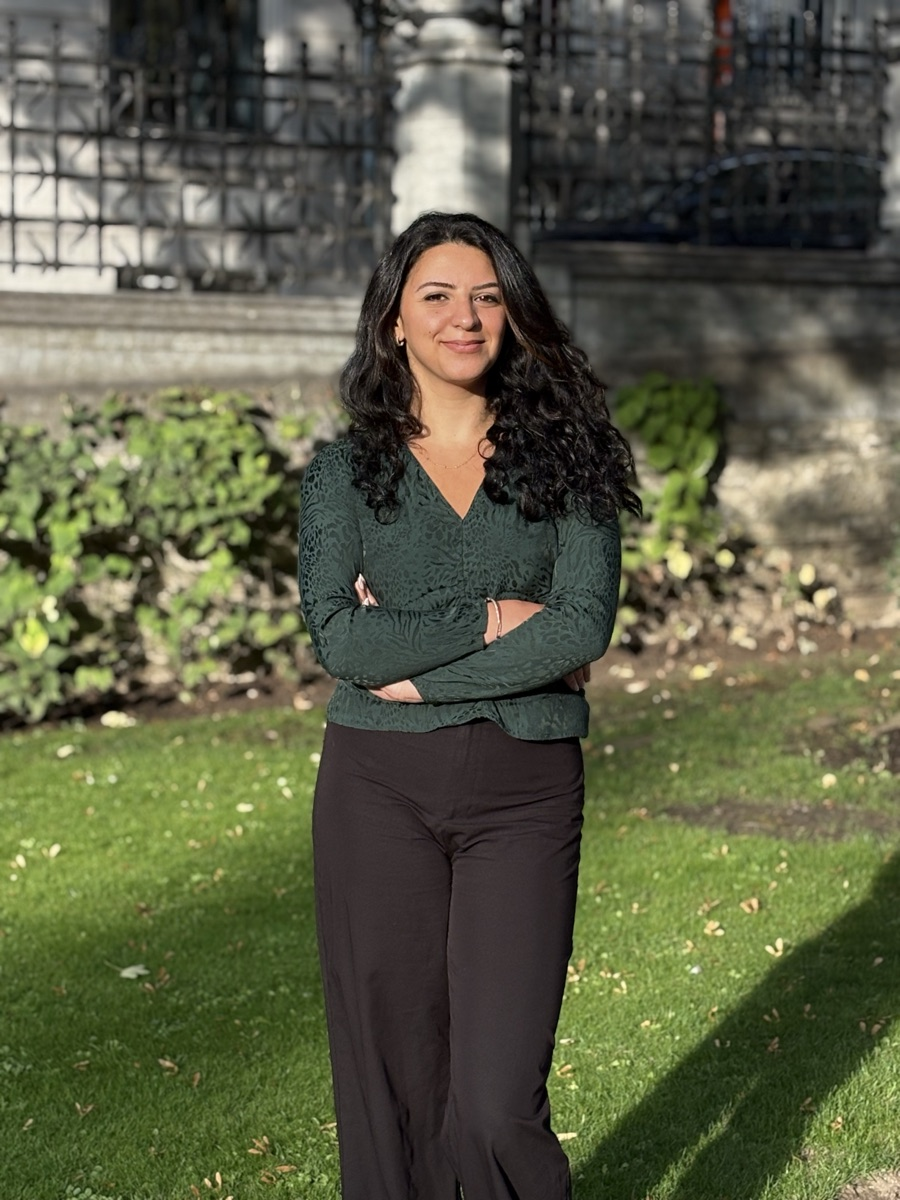
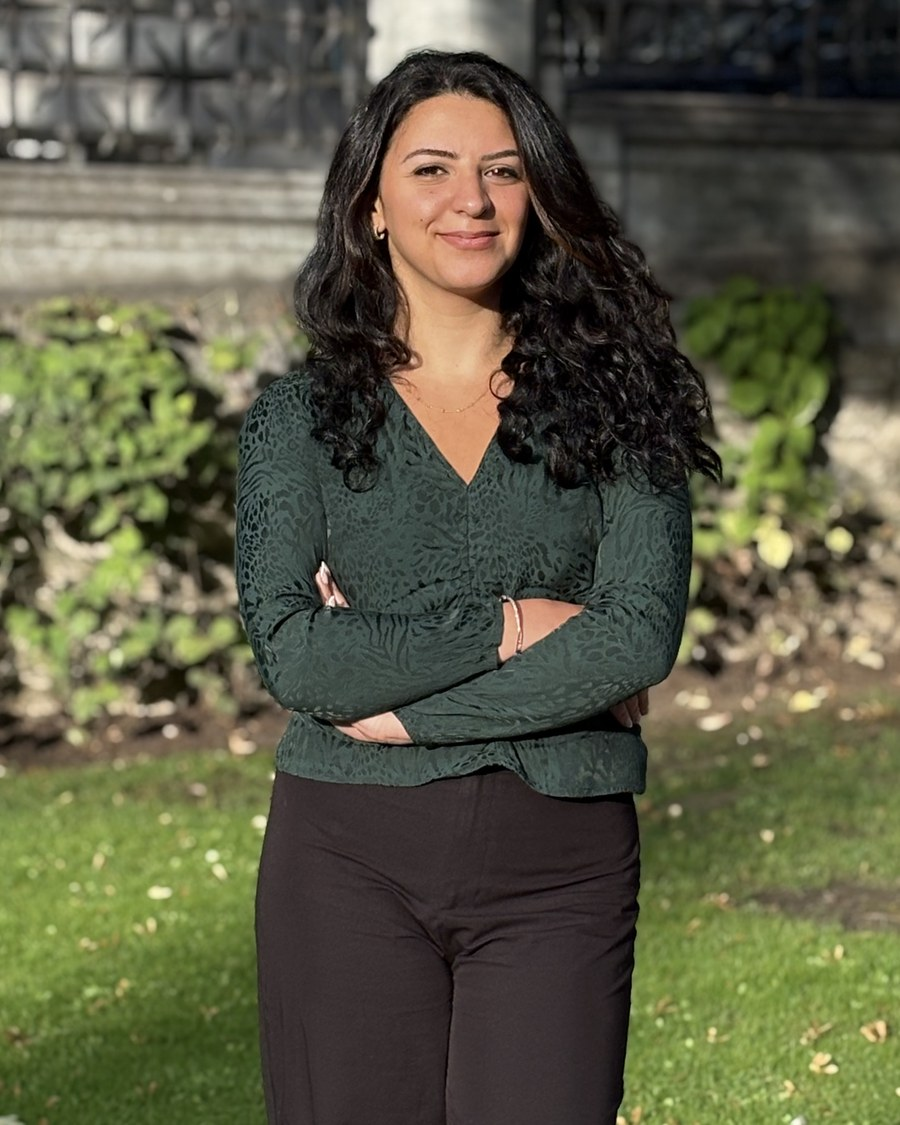
Move the site onto sage and caramel, and take the photograph as shot
The hero photograph is delivered already graded in the practice's tones, so
the treatment that used to fake that warmth is gone: no brown ground under
it, no `overlay` blend, no exposure lift. Only the framing crop remains — the
panel would otherwise eat the left half of the group. The full-resolution
file goes to `_originals/`, the 1900px JPEG to `assets/photos/`, as for every
other photograph here.

The team statement and the sentence under it run the full width of their
cell. They were capped twice: by the register's `--cell-measure`, and by the
66ch `--measure-prose` that `tokens/base.css` puts on every paragraph — the
second invisible at this width, but it would have taken over before the cell
edge on a wide screen. Both are lifted; the two blocks still break on one
shared vertical, which is now the cell's own edge.

The footer closes on the same sage that opens the site. The green is lighter
than the deep brown it replaces, so every tone carried on it was redone:
cream for headings, light sand for running text, caramel veil for what can be
clicked. All three clear 4.5:1, so the hierarchy rests on hue rather than on
contrast. The column labels are `Eyebrow`s, so the token is what turns over,
not a class — which is why the old `.pale` painted nothing across the child
component's root.

Soft fills follow: the contact band takes the caramel veil, and `Card` gains
a `warm` tone. Light green no longer serves as a background anywhere.
[…]

diff --git a/src/styles/tokens.css b/src/styles/tokens.css
@@ -128,9 +128,9 @@
 /* ---- Le survol ----
    La signature interactive du site change de couleur ET de geste. L'aplat brun
    profond devient CARAMEL, et il ne s'allume plus d'un bloc : il pousse depuis
-   le bord gauche de la cellule, arrondi, et se cale d'équerre en arrivant à
-   droite. L'arrondi n'existe donc que PENDANT le mouvement — au repos comme à
-   l'arrivée, le site garde ses angles droits (voir `tokens/borders.css`).
+   le bord gauche de la cellule jusqu'au bord droit. Le front est D'ÉQUERRE d'un
+   bout à l'autre — la loi des angles droits vaut aussi pendant le mouvement, et
+   pas seulement au repos et à l'arrivée (voir `tokens/borders.css`).
 
    L'encre passe au brun profond et non au crème : sur le caramel, le crème ne
    tient que 2,8:1 là où le brun profond monte à 4,3:1 — le maximum que la
@@ -143,23 +143,21 @@
   --hover-invert-line: rgba(59, 46, 30, .28);
 
   /* ---- La forme du front ----
-     Le caramel ne grandit pas depuis un point : il TRAVERSE. Un front de forme
-     constante part du bord gauche de la cellule et va jusqu'au bord droit —
-     bord d'attaque arrondi, bord de fuite plaqué d'équerre contre le bord
-     gauche de la cellule. Rien ne se déforme en route ; c'est ce qui fait lire
-     un déplacement plutôt qu'un gonflement.
+     Le caramel ne grandit pas depuis un point : il TRAVERSE. Un front DROIT part
+     du bord gauche de la cellule et va jusqu'au bord droit. Rien ne se déforme
+     en route ; c'est ce qui fait lire un déplacement plutôt qu'un gonflement.
 
-     Il dépasse à l'arrivée de la valeur exacte de son rayon : l'arrondi sort
-     ainsi de la cellule au lieu d'y rester, et le survol se cale d'équerre —
-     le site garde ses angles droits (voir `tokens/borders.css`).
+     Le bord d'attaque était arrondi ; il ne l'est plus. Le système ne pose
+     AUCUN rayon — ni sur les cadres, ni sur les filets, ni sur les boutons
+     (`tokens/borders.css`) — et un nez arrondi qui balayait la cellule était le
+     seul endroit du site où cette loi cédait, fût-ce pour 180 ms. La verticale
+     dit la même chose que le reste : angles droits.
 
-     Le rayon est une longueur FIXE et non une pastille : le front doit avoir la
-     même allure dans une cellule de 44px de haut et dans une de 285px. Sur les
-     plus basses il se referme de lui-même en demi-cercle (un rayon se borne à
-     la moitié du côté), ce qui est exactement ce qu'on veut. */
-  --survol-rayon: 24px;
-  --survol-ferme:  inset(0 100% 0 0 round 0 var(--survol-rayon) var(--survol-rayon) 0);
-  --survol-ouvert: inset(0 calc(-1 * var(--survol-rayon)) 0 0 round 0 var(--survol-rayon) var(--survol-rayon) 0);
+     UNE seule valeur bouge entre les deux états, l'écart de droite. Les
+     `inset()` gardent la même forme des deux côtés — c'est la condition pour
+     que le navigateur interpole le `clip-path` au lieu de le remplacer. */
+  --survol-ferme:  inset(0 100% 0 0);
+  --survol-ouvert: inset(0 0 0 0);
   /* « Vite » : le pas le plus court de l'échelle qui laisse encore voir un
      geste. Le même que celui des changements de couleur du système. */
   --survol-duree: var(--dur-fast);

diff --git a/src/data/site.js b/src/data/site.js
@@ -14,7 +14,7 @@ export const CONTACT = {
 };
 
 export const PHOTOS = {
-  equipe: '/photos/equipe.jpg',
+  equipe: '/photos/hero-egidia.jpg',
   equipeAlt: '/photos/equipe.jpg', // equipe-2.jpg jamais fourni — repli sur la principale
   ambiance: '/photos/ambiance-terrasse.jpg',
 };
